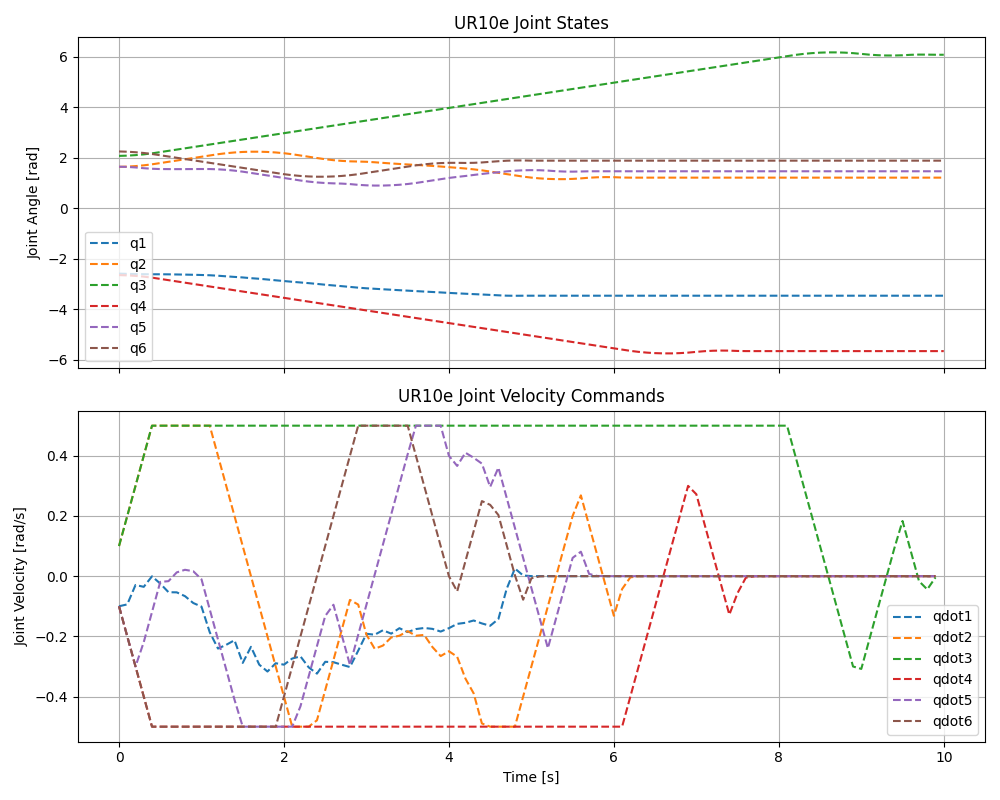
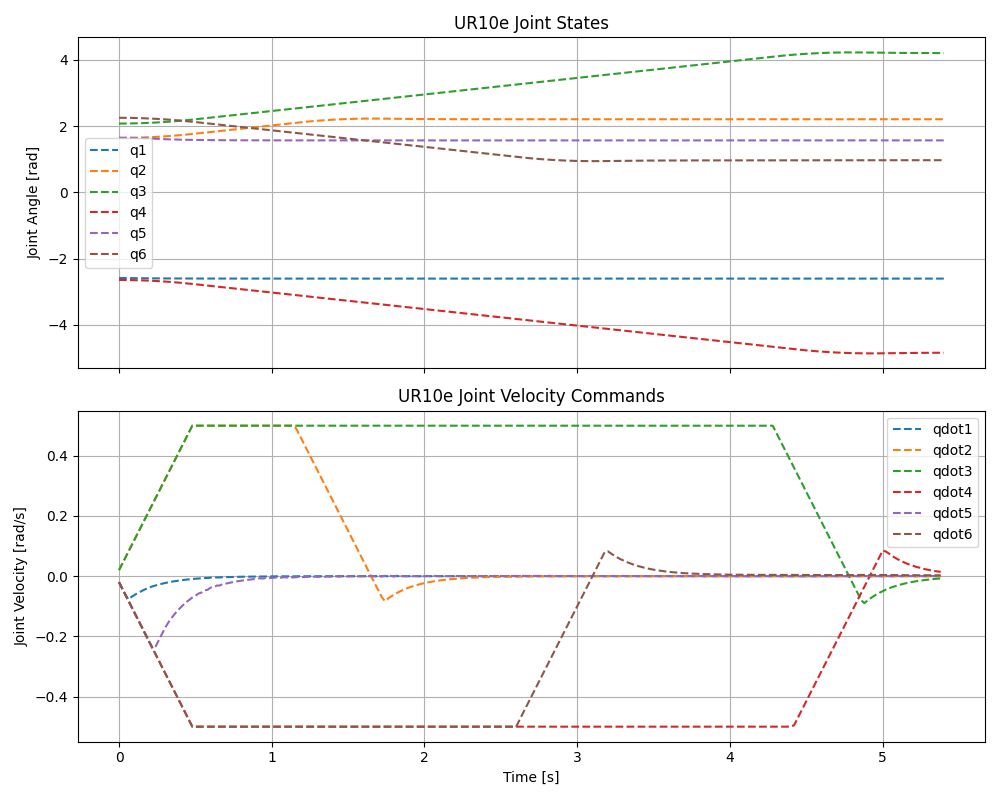
somewhat working live tracking with IMU

diff --git a/src/combined_main.py b/src/combined_main.py
@@ -19,15 +19,15 @@ try:
 except ImportError:
     HAS_URX = False
 
-SAMPLING_RATE = 10 # Hz
-MPC_HORIZON = SAMPLING_RATE // 10 # sec = horizon_samples / sampling_rate
+SAMPLING_RATE = 50 # Hz
+MPC_HORIZON = SAMPLING_RATE // 50 # sec = horizon_samples / sampling_rate
 
 # ── UR10e joint limits (CHANGE THESE for your actual robot) ──────────────
 # Hardware max from datasheet:
 #   Joints 0-1 (base, shoulder): 2.094 rad/s  (120 deg/s)
 #   Joints 2-5 (elbow, wrists):  3.142 rad/s  (180 deg/s)
 # Working limits (conservative for safety):
-VJ = 0.5   # rad/s  -- uniform working velocity limit for MPC
+VJ = 1   # rad/s  -- uniform working velocity limit for MPC
 AJ = 1.0   # rad/s² -- uniform working acceleration limit for MPC
 
 # Per-joint working velocity limits (rad/s).

diff --git a/src/mpc.py b/src/mpc.py
@@ -350,7 +350,7 @@ class MPC(object):
         :rtype: ca.DM
         """
         x_traj = np.array(self.shared_state.trajectory_window)
-        x_sp = x_traj.reshape(self.Nx * (self.Nt + 1)) # TODO: THIS IS VERY POSSIBLY WRONG
+        x_sp = x_traj.reshape(self.Nx * (self.Nt + 1))
         self.set_reference(x_sp)
 
         _, u_pred = self.solve_mpc(x0, u0=self.u_prev)
